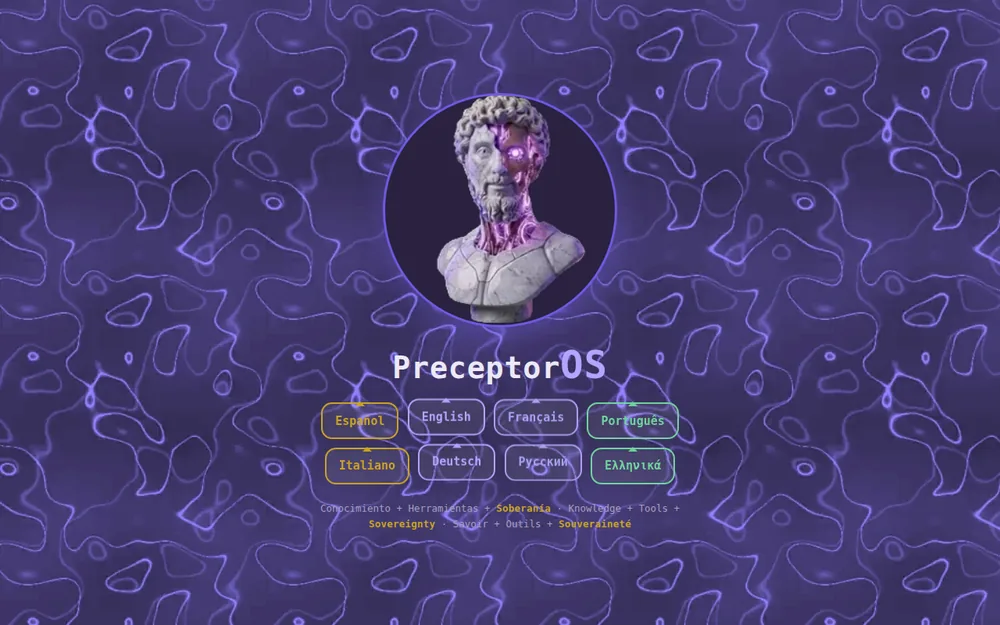
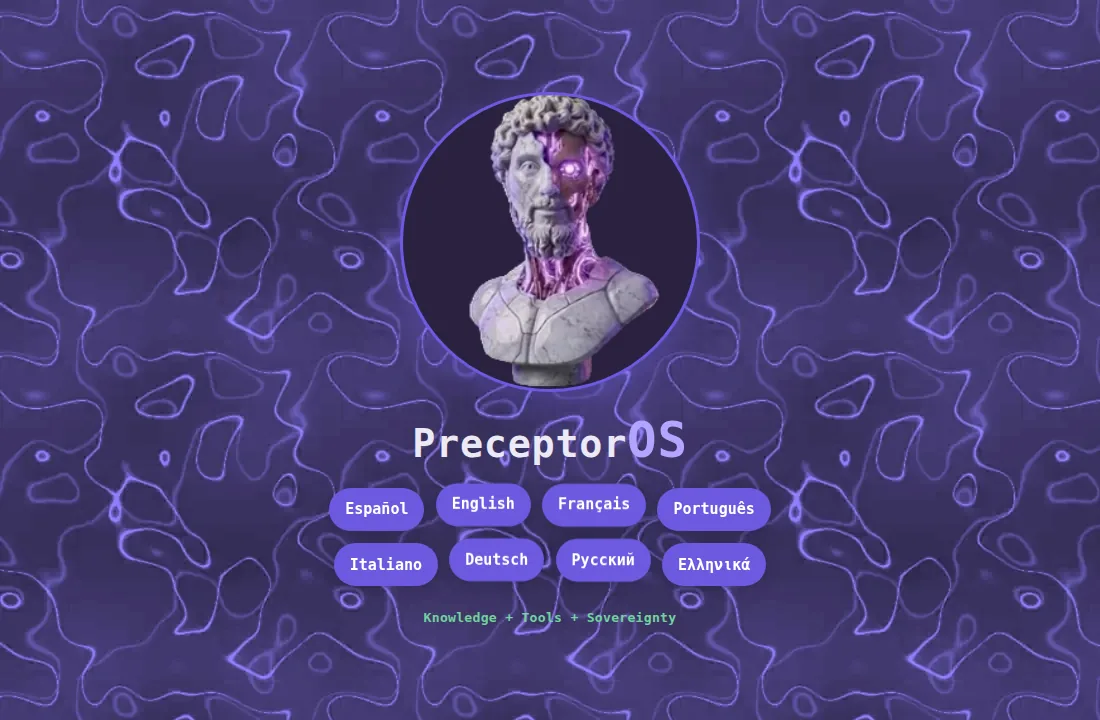
docs(estado): el reporte tecnico de la web, y cuatro capturas al dia
Escrito para la sesion que trabaje el GitHub: que hay, que reglas impone el
gate, que trampas ya mordieron y que falta. Las cifras estan contadas de los
ficheros.

Las cuatro capturas de docs/img/ eran de antes del redisenyo de esta tarde y
ensenyaban una pagina que ya no existe. Se regeneran contra lo desplegado. El
telon bloquea la captura headless --el tiempo virtual de Chrome no adelanta su
retardo-- asi que se fotografia sirviendo una copia de public/ sin ese bloque;
queda escrito, que es la clase de cosa que se redescubre a base de perder una
hora.

El inventario completo de los dos productos vive en ~/p0x/INVENTARIO.md.

diff --git a/docs/ESTADO.md b/docs/ESTADO.md
@@ -1,0 +1,135 @@
+# Estado técnico de la web · 2026-09-05
+
+Escrito para que una sesión nueva pueda trabajar el GitHub de los dos
+proyectos sin volver a medir nada. Todas las cifras de aquí salen de contar
+los ficheros, no de recordarlos.
+
+---
+
+## 1 · Qué es esto, en una frase
+
+Un sitio estático de siete páginas por idioma, ocho idiomas, sin build, sin
+framework y sin dependencias. Lo que hay en `public/` es exactamente lo que
+recibe el navegador. Se despliega empujando a `main`.
+
+## 2 · El terreno, contado
+
+| | |
+|---|---|
+| Páginas HTML | **56** (7 × 8 idiomas) |
+| Idiomas | es · en · fr · pt · it · de · ru · el |
+| Hojas de estilo | 18 |
+| Guiones | 24 |
+| Ficheros de datos | 12 `.json` + el `webmanifest` |
+| Peso de `public/` | 4,7 MB, de los que **3,9 MB son `assets/`** |
+| Lo más pesado | `assets/caras/` — 2,1 MB de tiras de animación |
+| Tope por fichero | **16 KiB**, vigilado por el gate |
+| Pruebas | `test_web.py` **76/76** · `arnes_sw.mjs` **21/21** |
+
+Las siete páginas de cada idioma: `index` · `instalar` · `benchmark`
+(LoRAtelier) · `community` · `onboarding` · `playground` · `profile`.
+
+## 3 · Las reglas que el gate impone
+
+No son estilo: son las que se rompen solas si nadie mira.
+
+1. **Ningún fichero pasa de 16.384 B**, `.html`, `.css`, `.js` y `.json`
+   incluidos. Cuando uno se pasa **se parte por asunto; jamás se recorta un
+   comentario** — en este árbol los comentarios son la documentación, y
+   quitarlos para salvar un número es pagar el tope con lo único que no se
+   puede volver a deducir del código. Hoy se partió siete veces.
+2. **Paridad de idiomas.** Toda clave que un guion lea como `T.algo` tiene que
+   existir en las ocho portadas. Una lengua a medias pone el gate rojo.
+3. **Contraste medido, no elegido.** Cada color de texto tiene su medida al
+   lado en el comentario. La trampa que ya mordió dos veces: *un color medido
+   contra un fondo no vale contra el contrario*, y los tokens giran con el
+   tema mientras un hexadecimal fijo no.
+4. **Cero peticiones externas al cargar.** Ni fuentes, ni analítica, ni CDN.
+5. **Un hueco se llama hueco.** Donde falta un dato se dice, con su causa, en
+   vez de enseñar uno viejo con cara de fresco.
+
+### La trampa del gate, que costó seis rojos hoy
+**El guardián lee los comentarios como si fueran código.** Nombrar un radio,
+un `backdrop-filter` o un `text-shadow` en una frase que explica por qué *no*
+se usan pone el gate en rojo. Se reformula la frase; no se toca el guardián.
+
+## 4 · La forma de la portada, hoy
+
+Un solo marco de bronce (`main:has(#chat)`) engloba todo el lugar de trabajo.
+Dentro, de arriba abajo:
+
+- **Cabecero.** En escritorio: marca a la izquierda, los dos mandos —cuenta y
+  ajustes, gemelos, dorados y transparentes— en la esquina superior derecha.
+  En teléfono son dos renglones: marca con GitHub y LinkedIn, y debajo la
+  cuenta con la rueda a la derecha.
+- **La declaración solar** es una nube con una pila que se carga, dibujada
+  entera en un pseudo-elemento — cero etiquetas nuevas.
+- **Las cuatro puertas** a tamaño mínimo.
+- **La esfera**, Capa 4, anclada a la derecha y empezando por debajo de los
+  mandos para no taparlos. Se enciende en neón al pensar y saca la nube
+  «Activando modelo» sólo durante la espera.
+- **La placa del chat**, con desvanecido del texto al llegar arriba y la línea
+  de escribir pegada abajo.
+- **Los atajos**, y debajo **el cuadro de especificaciones**: quién te habla y
+  para qué sirve, el motor, la velocidad medida y las ocho nubes de compañero.
+
+### La escala de capas
+`--capa-1-chat:10` · `--capa-2-cabezal:20` · `--capa-3-lateral:30` ·
+`--capa-4-cara:40` · `--capa-5-lleno:50` · `--capa-telon:90`. Los mismos
+números y los mismos nombres que la app, a propósito.
+
+## 5 · Cosas que hay que saber antes de tocar nada
+
+- **El caché del navegador enseña código viejo.** Costó media hora hoy leyendo
+  una regla que estaba en disco y no en el navegador. La única forma fiable de
+  mirar un cambio es servir en **un puerto nuevo**:
+  `python3 -m http.server <puerto> --directory public`.
+- **El telón bloquea las capturas headless.** El tiempo virtual de Chrome no
+  adelanta su retardo. Para fotografiar hay que servir una copia de `public/`
+  con el bloque `.telon` quitado — es como se hicieron las cuatro imágenes de
+  `docs/img/`.
+- **Retirar un mando es retirar también lo que le obedecía.** Se quitó el botón
+  de Herramientas y las nubes quedaron invisibles porque el código que las
+  plegaba seguía corriendo.
+- **`display:contents` anula el `order` del envoltorio.** Media hora buscando
+  por qué la rueda no se movía de la esquina izquierda.
+- **Un `top` no gana a un margen: se suman.** Los dos mandos declaraban la
+  misma altura y uno caía 11,2 px más abajo, que es exactamente el
+  `margin-top` que `.fila` le regalaba.
+- **Con `margin-left:auto` en dos cajas, el hueco se reparte** en vez de
+  cerrarse. Empuja la primera; la segunda sólo la sigue.
+
+## 6 · Para el trabajo de GitHub
+
+### Lo que ya está
+- `docs/img/` tiene **cuatro capturas regeneradas hoy** contra la versión
+  desplegada: `puerta.webp`, `chat.webp`, `install.webp`, `phone.webp`.
+- Los dos README están **redactados y sin aplicar**, pendientes de firma:
+  sólo en inglés, frases simples, sin nombres propios. La app se presenta como
+  medidor de IA y acceso democratizado al autoconocimiento; la web, como guía
+  para romper la barrera técnica y crear comunidad.
+
+### Lo que falta
+1. **Aplicar los README** una vez firmados. El actual de la web es bilingüe y
+   describe una versión anterior de la página.
+2. **Una quinta captura** con el teclado abierto en un teléfono real. Lo que
+   hay está medido forzando `--alto-visible` en el navegador, no en metal.
+3. **Descripción, topics y enlace** de los dos repositorios: hoy no hay nada
+   que diga en la propia ficha de GitHub qué es cada uno.
+4. **Revisión nativa de ruso y griego.** Son las dos lenguas que no puedo
+   revisar, y copia de producto mal traducida en un sitio público es peor que
+   no tenerla.
+
+## 7 · Deuda declarada
+
+| Qué | Dónde |
+|---|---|
+| `medidas.json` no tiene campo `firma`. La marca «sin firmar» depende de él, así que hoy se pinta por **ausencia**, no por medida. El enjambre local debe escribirlo al volcar la media horaria. | `public/medidas.json` |
+| Los cuatro NO_DATA con su `que` y su `causa` viven en ese mismo fichero y **no se pintan en ningún sitio**. Es deliberado —pesaban más que el dato— pero es estructura real sin uso: o se pinta, o se retira. | `public/medidas.json` |
+| La función de cada compañero está a la vez en el `title` de su nube y en la ficha. Duplicado inofensivo. | `assets/hub.js` |
+| El catálogo `hub.json` lleva **un solo nombre por agente**, sin variantes por idioma: «El Instalador» sale igual en las ocho portadas. Puede que sea correcto —son nombres propios— pero está sin decidir. | `public/hub.json` |
+
+---
+
+*Gate al cerrar: `test_web.py` 76/76 · `arnes_sw.mjs` 21/21 · desplegado en
+`main`, versión de worker `preceptoros-2026-10-y`.*
